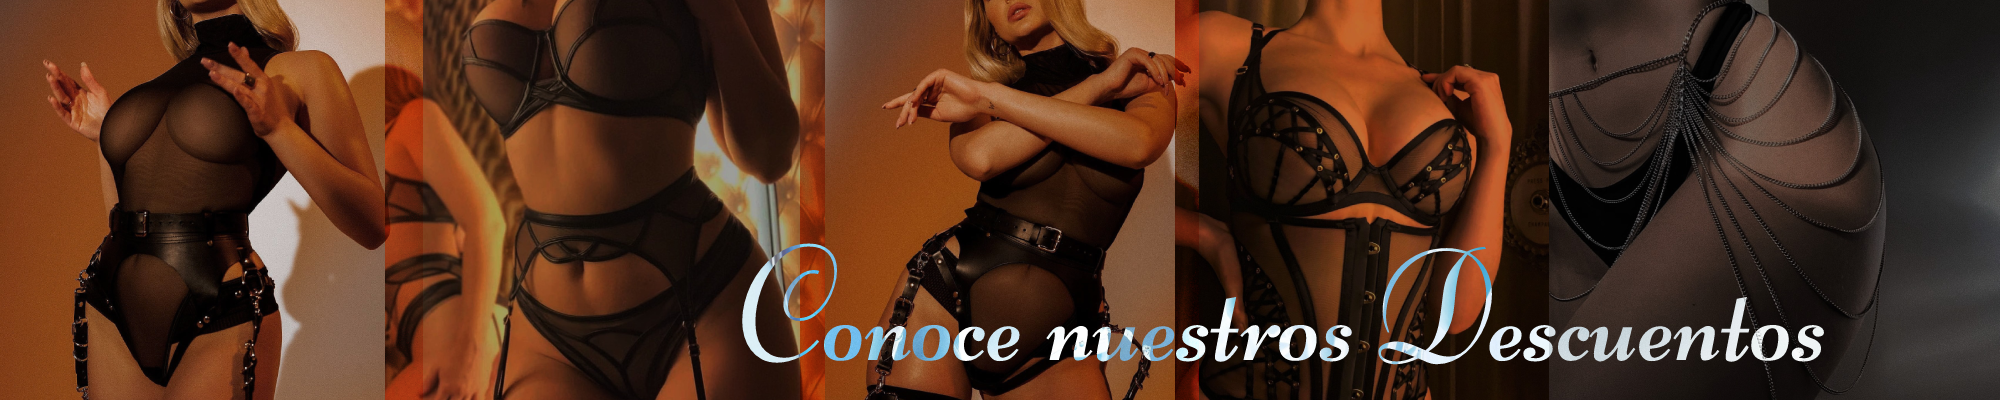
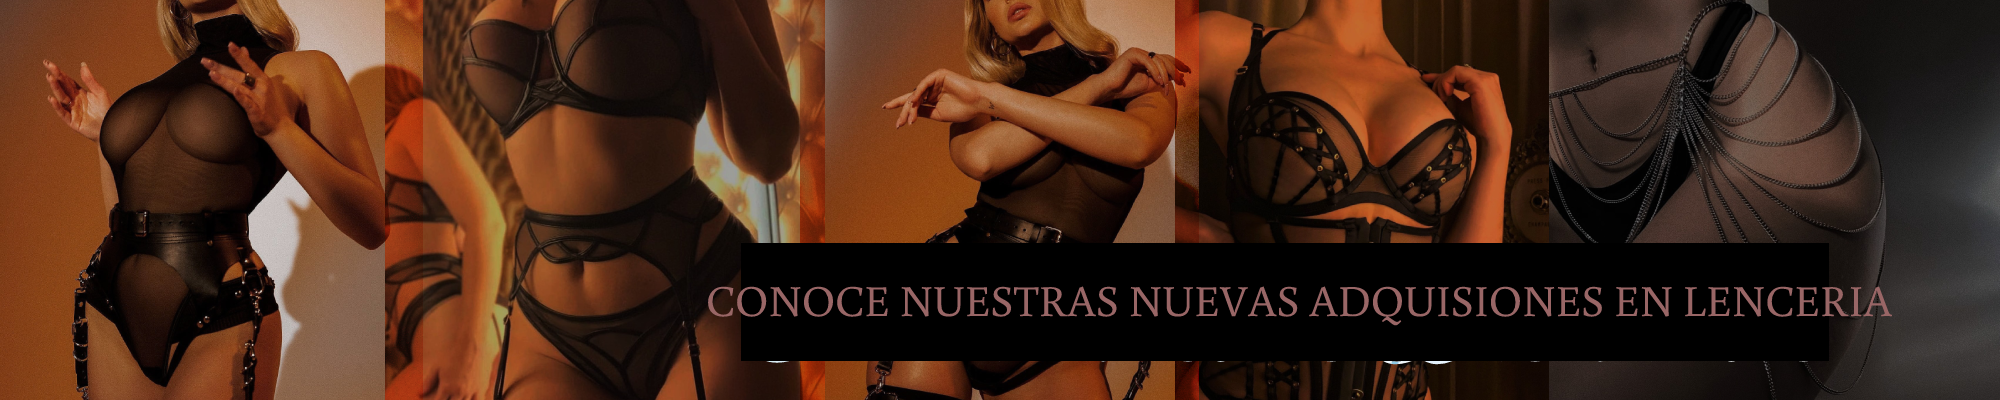
24 de febrero

Changed region(s): [[0.341, 0.6, 0.961, 0.9]]

diff --git a/index.html b/index.html
@@ -14,9 +14,43 @@
 
 <body style="background: rgb(184,39,57);
 background: radial-gradient(circle, rgba(184,39,57,1) 1%, rgba(22,12,23,1) 100%);">
+    <div class="modal fade" id="exampleModal" tabindex="-1" aria-labelledby="exampleModalLabel" aria-hidden="true">
+        <div class="modal-dialog">
+            <div class="modal-content">
+                <div class="modal-header">
+                    <h1 class="modal-title fs-5" id="exampleModalLabel">Modal title</h1>
+                    <button type="button" class="btn-close" data-bs-dismiss="modal" aria-label="Close"></button>
+                </div>
+                <div class="modal-body">
+                    ...
+                </div>
+                <div class="modal-footer">
+                    <button type="button" class="btn btn-secondary" data-bs-dismiss="modal">Close</button>
+                    <button type="button" class="btn btn-primary">Save changes</button>
+                </div>
+            </div>
+        </div>
+    </div>
+    <div class="modal fade" id="exampleModal" tabindex="-1" aria-labelledby="exampleModalLabel" aria-hidden="true">
+        <div class="modal-dialog">
+            <div class="modal-content">
+                <div class="modal-header">
+                    <h1 class="modal-title fs-5" id="exampleModalLabel">Modal title</h1>
+                    <button type="button" class="btn-close" data-bs-dismiss="modal" aria-label="Close"></button>
+                </div>
+                <div class="modal-body">
+                    11111
+                </div>
+                <div class="modal-footer">
+                    <button type="button" class="btn btn-secondary" data-bs-dismiss="modal">Close</button>
+                    <button type="button" class="btn btn-primary">Save changes</button>
+                </div>
+            </div>
+        </div>
+    </div>
     <div>
         <div>
-            <nav class="navbar navbar-expand-lg bg-body-tertiary p-0" >
+            <nav class="navbar navbar-expand-lg bg-body-tertiary p-0">
                 <div class="container-fluid  border-bottom " style="background-color: #a4133c ">
                     <div class="collapse navbar-collapse p-2" id="navbarSupportedContent">
                         <ul class="navbar-nav me-auto mb-2 mb-lg-0 " style="width: 28%;">
@@ -25,15 +59,18 @@ background: radial-gradient(circle, rgba(184,39,57,1) 1%, rgba(22,12,23,1) 100%)
                             </li>
                         </ul>
                         <div class="logo1">
-                            <a class="qloo" href="#"><img src="assets/pics/qlo.png" width="175"
-                                    alt=""></a>
+                            <a class="qloo" href="#"><img src="assets/pics/qlo.png" width="175" alt=""></a>
                         </div>
                         <ul class="navbar-nav me-auto mb-lg-0">
-                            <li class="nav-item"  style="margin-right: 70px;">
-                                <a class="nav-link active text-light me-5 " href="#"><strong class="raya">Log In</strong></a>
+                            <li class="nav-item" style="margin-right: 70px;">
+                                <a class="nav-link active text-light me-5 " href="#"><strong class="raya"
+                                        data-bs-toggle="modal" data-bs-target="#exampleModal">Log
+                                        In</strong></a>
                             </li>
                             <li class="nav-item ">
-                                <a class="nav-link active ms-5 text-light" href="#"><strong class="raya">Sign In</strong></a>
+                                <a class="nav-link active ms-5 text-light" href="#"><strong class="raya"
+                                        data-bs-toggle="modal" data-bs-target="#exampleModal">Sign
+                                        Up</strong></a>
                             </li>
                         </ul>
                         <div class="input-group w-25">
@@ -56,27 +93,10 @@ background: radial-gradient(circle, rgba(184,39,57,1) 1%, rgba(22,12,23,1) 100%)
                 </div>
             </nav>
         </div>
-        <div class="offcanvas offcanvas-end text-bg-dark" tabindex="-1" id="offcanvasExample"
-            aria-labelledby="offcanvasExampleLabel">
-            <div class="offcanvas-header">
-                <h5 class="offcanvas-title" id="offcanvasExampleLabel">Offcanvas</h5>
-                <button type="button" class="btn-close" data-bs-dismiss="offcanvas" aria-label="Close"></button>
-            </div>
-            <div class="offcanvas-body">
-                <div>
-                    Some text as placeholder. In real life you can have the elements you have chosen. Like, text,
-                    images, lists, etc.
-                </div>
-                <div class="dropdown mt-3">
-                    <button class="btn btn-secondary dropdown-toggle" type="button" data-bs-toggle="dropdown">
-                        Dropdown button
-                    </button>
-                    <ul class="dropdown-menu">
-                        <li><a class="dropdown-item" href="#">Action</a></li>
-                        <li><a class="dropdown-item" href="#">Another action</a></li>
-                        <li><a class="dropdown-item" href="#">Something else here</a></li>
-                    </ul>
-                </div>
+        <div class="offcanvas offcanvas-end text-bg-dark" id="offcanvasExample">
+            <div id="carrito">
+                <ul id="lista-carrito">
+                </ul>
             </div>
         </div>
         <div id="carouselExampleIndicators" class="carousel slide m-5" data-bs-ride="true">
@@ -90,7 +110,7 @@ background: radial-gradient(circle, rgba(184,39,57,1) 1%, rgba(22,12,23,1) 100%)
             </div>
             <div class="carousel-inner">
                 <div class="carousel-item active">
-                    <img src="/assets/pics/ttttt.png" class="mx-auto d-block w-100" alt="...">
+                    <img src="/assets/pics/DESCUENTOS.png" class="mx-auto d-block w-100" alt="...">
                 </div>
                 <div class="carousel-item">
                     <img src="assets/pics/ttttt.png" class="mx-auto d-block w-100" alt="...">
@@ -110,10 +130,46 @@ background: radial-gradient(circle, rgba(184,39,57,1) 1%, rgba(22,12,23,1) 100%)
                 <span class="visually-hidden">Next</span>
             </button>
         </div>
+        <div class="row justify-content-evenly">
+            <div class="card text-bg-dark" style="width: 25%;">
+                <img src="assets/pics/Cosmeticos Eroticos.jpg" class="card-img">
+                <div class="card-img-overlay text-center" style="text-align: center;">
+                    <a href="#" class="btn btn-primary">COSMETICOS SEXUALES</a>
+                </div>
+            </div>
+            <div class="card text-bg-dark" style="width: 25%;">
+                <img src="assets/pics/Cosmeticos Eroticos.jpg" class="card-img">
+                <div class="card-img-overlay text-center" style="text-align: center;">
+                    <a href="#" class="btn btn-primary">LENCERIA Y DISFRACES </a>
+                </div>
+            </div>
+            <div class="card text-bg-dark" style="width: 25%;">
+                <img src="assets/pics/Cosmeticos Eroticos.jpg" class="card-img">
+                <div class="card-img-overlay text-center" style="text-align: center;">
+                    <a href="#" class="btn" style="background-color: #a4133c ; opacity: 90%;">JUGUETES SEXUALES</a>
+                </div>
+            </div>
+        </div>
+        <div id="productos">
+            <h2>Productos</h2>
+            <ul id="lista-productos">
+                <li>
+                    <span style="display: none;">Vibrador 1</span>
+                    <img src="Assets/IMG/vibrador.jpeg" alt="">
+                    <button class="boton-agregar" data-id="1">Agregar al carrito</button>
+                </li>
+                <li>
+                    <span>Producto 2</span>
+                    <button class="boton-agregar" data-id="2">Agregar al carrito</button>
+                </li>
+                <!-- Añade más productos aquí -->
+            </ul>
+        </div>
     </div>
 </body>
 <script src="https://cdn.jsdelivr.net/npm/bootstrap@5.2.3/dist/js/bootstrap.bundle.min.js"
     integrity="sha384-kenU1KFdBIe4zVF0s0G1M5b4hcpxyD9F7jL+jjXkk+Q2h455rYXK/7HAuoJl+0I4"
     crossorigin="anonymous"></script>
+<script src="script.js"></script>
 
 </html>

diff --git a/script.js b/script.js
@@ -1,0 +1,50 @@
+// Obtener elementos del DOM
+const listaProductos = document.querySelector('#lista-productos');
+const listaCarrito = document.querySelector('#lista-carrito');
+
+// Añadir evento de clic a los botones "Agregar al carrito"
+listaProductos.addEventListener('click', agregarProducto);
+
+// Definir la función agregarProducto
+function agregarProducto(e) {
+    if (e.target.classList.contains('boton-agregar')) {
+        const producto = e.target.parentElement;
+        const productoTitulo = producto.querySelector('span').innerText;
+        const productoId = e.target.dataset.id;
+
+        // Comprobar si el producto ya está en el carrito
+        const productosEnCarrito = listaCarrito.querySelectorAll('.producto-carrito');
+        for (let i = 0; i < productosEnCarrito.length; i++) {
+            if (productosEnCarrito[i].dataset.id === productoId) {
+                alert('Este producto ya está en el carrito');
+                return;
+            }
+        }
+
+        // Crear elemento para añadir al carrito
+        const elementoCarrito = document.createElement('li');
+        elementoCarrito.classList.add('producto-carrito');
+        elementoCarrito.dataset.id = productoId;
+        elementoCarrito.innerHTML = `
+            <span>${productoTitulo}</span>
+            <button class="boton-quitar" data-id="${productoId}">Quitar del carrito</button>
+        `;
+
+        // Añadir elemento al carrito
+        listaCarrito.appendChild(elementoCarrito);
+    }
+}
+
+// Añadir evento de clic a los botones "Quitar del carrito"
+listaCarrito.addEventListener('click', quitarProducto);
+
+// Definir la función quitarProducto
+function quitarProducto(e) {
+    if (e.target.classList.contains('boton-quitar')) {
+        const productoId = e.target.dataset.id;
+        const productoEnCarrito = listaCarrito.querySelector(`.producto-carrito[data-id="${productoId}"]`);
+
+        // Quitar elemento del carrito
+        listaCarrito.removeChild(productoEnCarrito);
+    }
+}

diff --git a/assets/styles.css b/assets/styles.css
@@ -24,4 +24,13 @@
     text-decoration:underline;
 }
 
+.agreg {
+    justify-self: center;
+}
+
+.row {
+    --bs-gutter-x: 0;
+    --bs-gutter-y: 0;
+}
+
 
